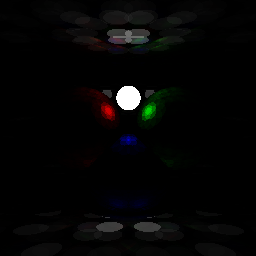
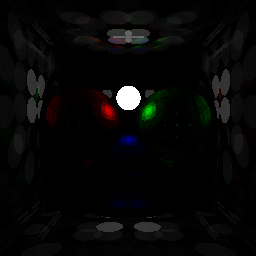
feat: add walls to the scene
Close up the box that is the scene to prevent light leakage.

diff --git a/src/main.rs b/src/main.rs
@@ -253,6 +253,15 @@ fn main() {
     scene.add_primitive(Box::new(
         PlanePrimitive{collider: Plane::new(Vec3::new(0., 0., -1.), -3.), material: white.clone()}
     ));
+    scene.add_primitive(Box::new(
+        PlanePrimitive{collider: Plane::new(Vec3::new(0., 0., 1.), -3.), material: white.clone()}
+    ));
+    scene.add_primitive(Box::new(
+        PlanePrimitive{collider: Plane::new(Vec3::new(1., 0., 0.), -0.75), material: white.clone()}
+    ));
+    scene.add_primitive(Box::new(
+        PlanePrimitive{collider: Plane::new(Vec3::new(-1., 0., 0.), -0.75), material: white.clone()}
+    ));
 
     let integrator = Integrator::new(&scene);
 
